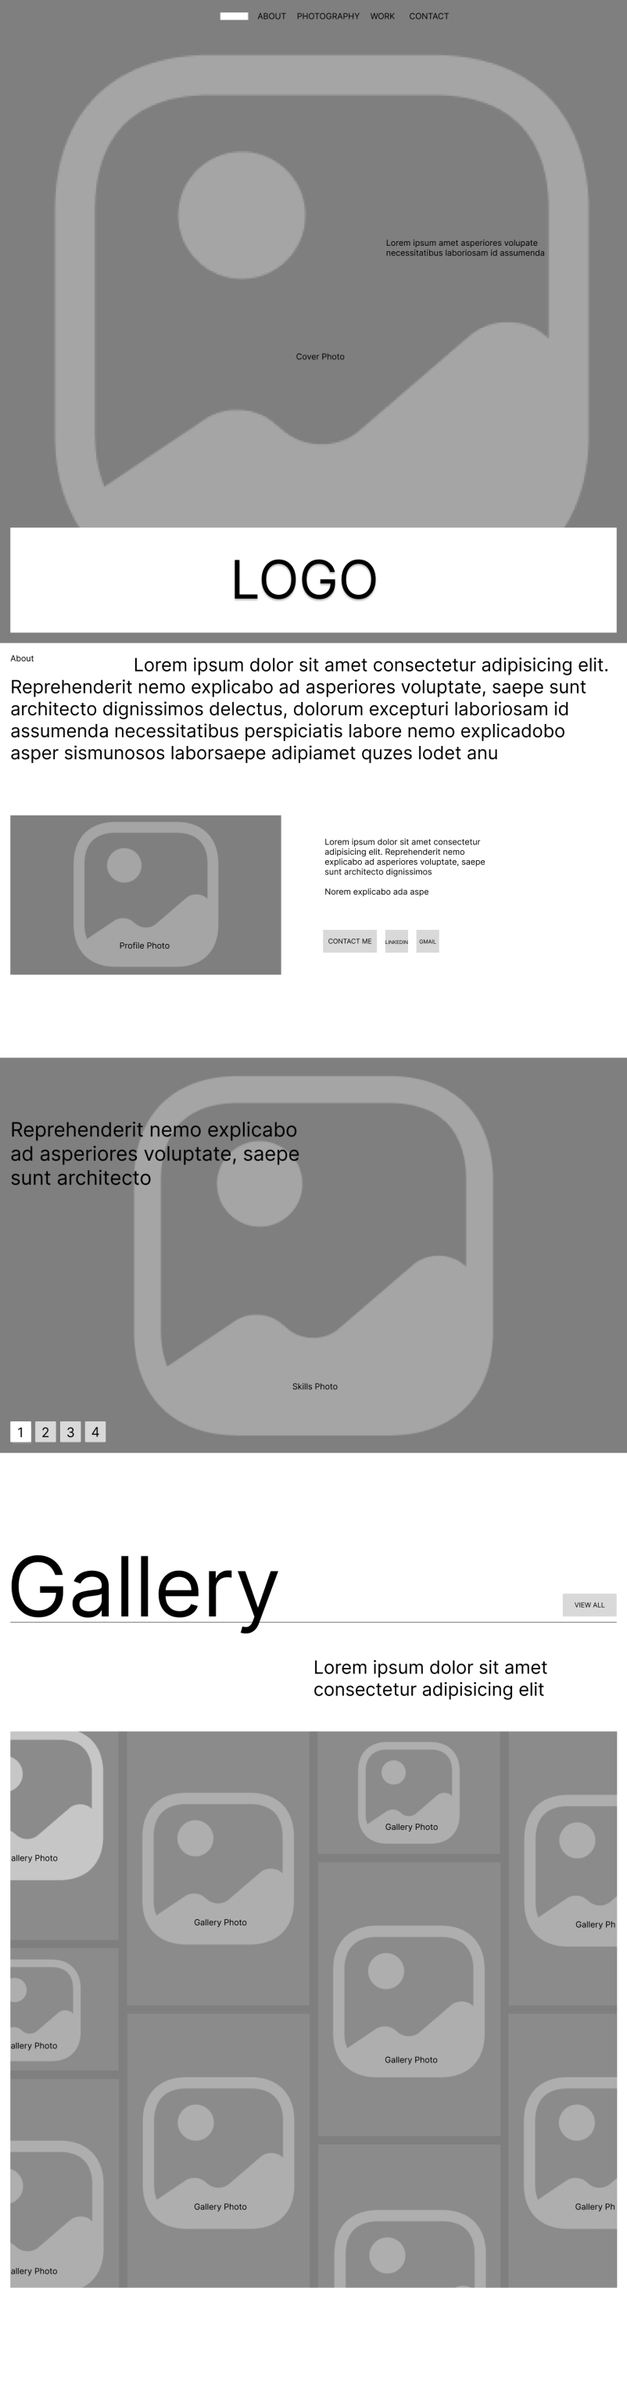
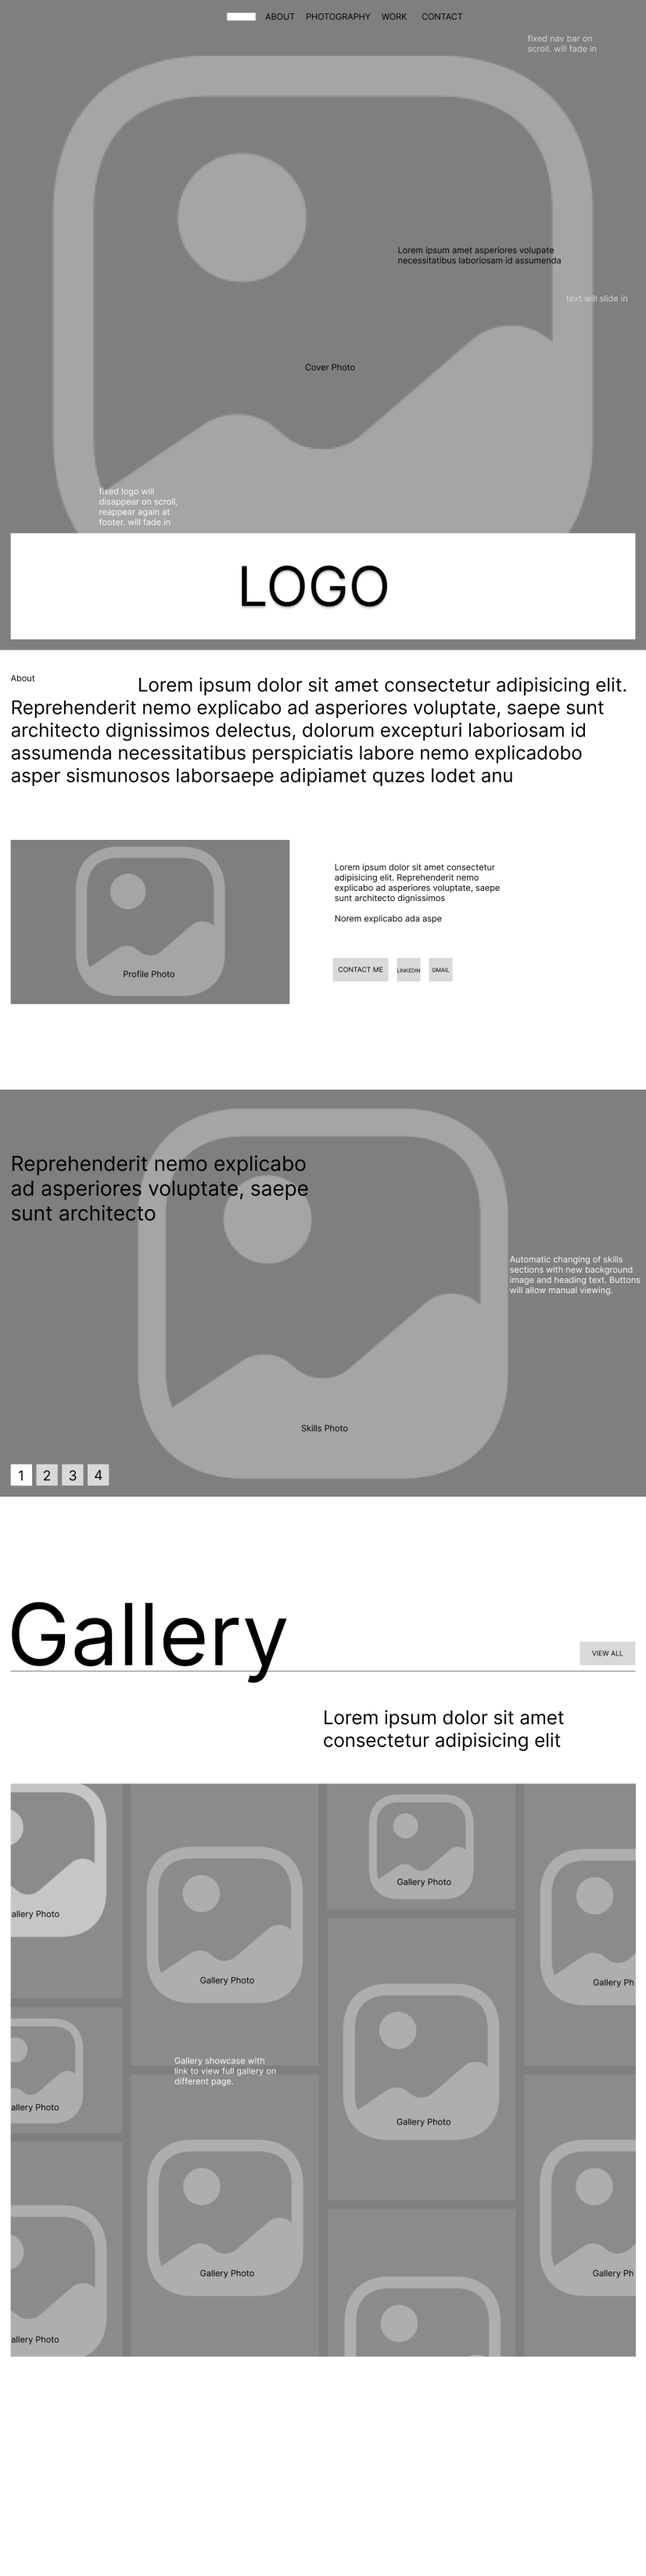
updates

diff --git a/css/style.css b/css/style.css
@@ -28,7 +28,7 @@ main {
     transition: background-size 0.5s ease-out;
     background-position: center;
     background-attachment: fixed;
-    z-index: 1;
+    z-index: 3;
 }
 
 .primaryHeader{
@@ -43,10 +43,10 @@ main {
     animation: fadeIn 0.8s ease-in forwards;
     transition: background-color .5s ease, opacity 0.5s ease;
     backdrop-filter: blur(2rem);
-    z-index: 10;
+    z-index: 9999;
     border-radius: 3px;
     padding: 10px 20px;
-    margin-top: 5px;  
+    
 }
 
 @keyframes fadeIn {
@@ -91,9 +91,9 @@ nav li a {
     padding: 0 25px 25px 25px;
     position: fixed;
     bottom: 0;
-    z-index: 2;
     animation: fadeIn 3s ease-in forwards;
-    margin: 0 auto;
+    margin: -9px auto;
+    
 
 }
 
@@ -117,7 +117,9 @@ main p {
 .aboutTitle {
     font-size: 1.2rem;
     line-height: 120%;
-    margin: 50px 0 0 25px;
+    margin: 35px 0 0 25px;
+    z-index: 3;
+    position: relative;
 }
 
 .aboutHeading {
@@ -149,6 +151,10 @@ main p {
 .aboutLeft {
     width: 50%;
     margin-left: 25px;
+}
+
+.aboutLeft img {
+    width: 70%;
 }
 
 .aboutRight {
@@ -190,10 +196,13 @@ main p {
     flex-direction: column;
     justify-content: space-between;
     background-image: url("../images/skills0.png");
+    background-size: cover;
+    background-position: center;
     width: 100%;
-    height: 900px;
+    height: 800px;
     z-index: 3;
-position: relative;
+    position: relative;
+    margin-bottom: 200px;
 }
 
 

diff --git a/index.html b/index.html
@@ -14,23 +14,22 @@
     <link href="https://fonts.googleapis.com/css2?family=Inter+Tight:ital,wght@0,100..900;1,100..900&display=swap" rel="stylesheet">
 </head>
 <body>
-    
+    <header class="primaryHeader">     
+        <nav>
+            <a href="index.html"><img class="bar" src="images/barWhite.png" alt="bar</a>">
+            <li><a href="#about">About</a></li>
+            <li><a href="#gallery">Gallery</a></li>
+            <li><a href="#">Work</a></li>
+            <li class="navLastLi"><a href="#">Contact</a></li>
+        </nav>
+    </header>
     <main id="main">
-        <header class="primaryHeader">
-            
-            <nav>
-                <a href="index.html"><img class="bar" src="images/barWhite.png" alt="bar</a>">
-                <li><a href="#about">About</a></li>
-                <li><a href="#gallery">Gallery</a></li>
-                <li><a href="#">Work</a></li>
-                <li class="navLastLi"><a href="#">Contact</a></li>
-            </nav>
-        </header>
         <section class="logo">    
-            <img src="images/logo.png" alt="logo"> 
-                                 
+            <img src="images/logo.png" alt="logo">                          
         </section>
     </main>
+    
+    
     <div id="about"></div> 
     <p class="aboutTitle">About</p>
     <div class="aboutHeading">
